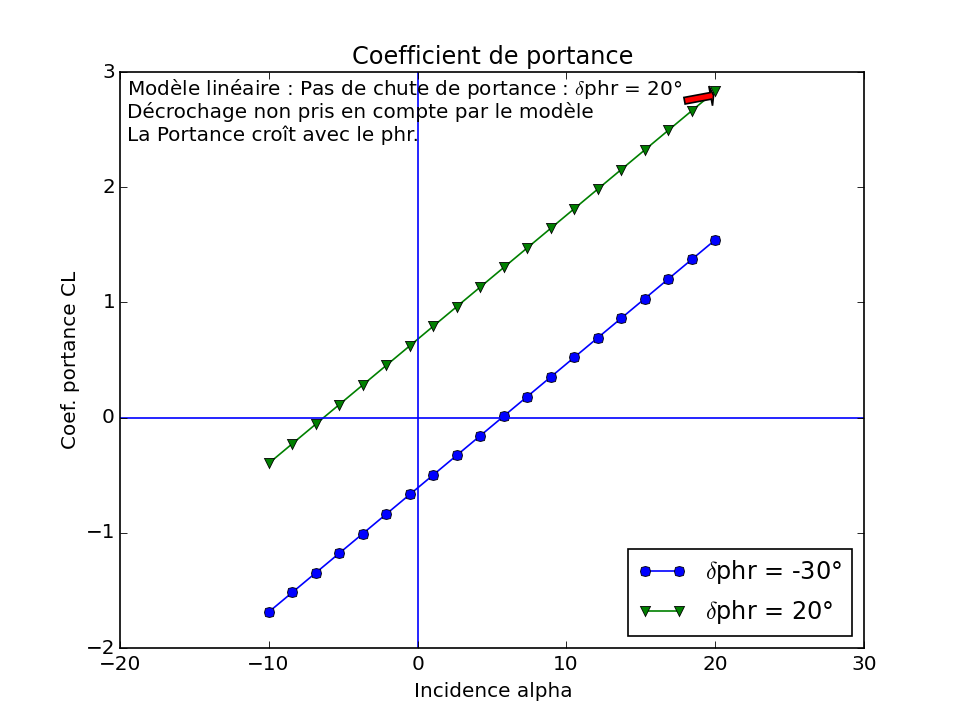
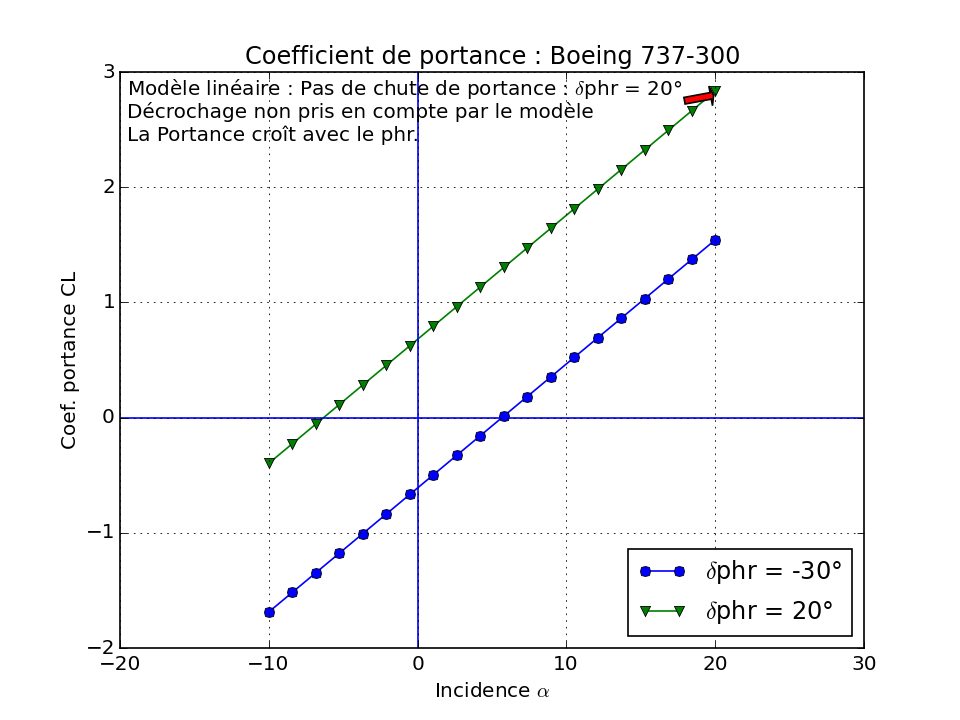
question 3.2.4

Changed region(s): [[0.25, 0.0611, 0.7812, 0.0917], [0.4375, 0.9472, 0.5938, 0.9778]]

diff --git a/main.py b/main.py
@@ -21,7 +21,7 @@ def poussee():
     abs_mach = np.linspace(0.5, 0.8, 20)  # mach en abscissse : vecteur avec 20 points
     U = [0., 1.]  # [ delta_phr delta_thrust ]  poussé max donc thrust=1
     h_list = [3000., 10000.]
-    plt.title("Poussée max en fonction du mach et de l'altitude")
+    plt.title("Poussée max en fonction du mach et de l'altitude : "+P.name)
     plt.axis([0.5, 0.8, 50, 100])
     #####################################################################################
     # FONCTIONS ANNEXES : MATHPLOTLIB
@@ -59,7 +59,7 @@ def portance():
 
     abs_alpha = np.linspace(a_rad[0], a_rad[1], 20)  # mach en abscissse : vecteur avec 20 points
     abs_alpha_deg = np.linspace(a_deg[0], a_deg[1], 20)
-    plt.title("Coefficient de portance")
+    plt.title("Coefficient de portance : "+P.name)
     plt.axis([-20,30,-2,3])
     #####################################################################################
     # FONCTIONS ANNEXES : MATHPLOTLIB
@@ -75,7 +75,7 @@ def portance():
     plt.legend(loc=4)
     plt.axhline()
     plt.axvline()
-    plt.xlabel('Incidence alpha')
+    plt.xlabel(r'Incidence $\alpha$')
     plt.ylabel('Coef. portance CL')
     plt.savefig('images/CL_of_alpha.png', dpi=120)  # sauvegarde du graphe au format png dans le dossier images
     plt.show()
@@ -98,7 +98,7 @@ def tangage():
     ms_list = [-0.1,0.,0.2,1]
     abs_alpha = np.linspace(a_rad[0], a_rad[1], 20)  # mach en abscissse : vecteur avec 20 points
     abs_alpha_deg = np.linspace(a_deg[0], a_deg[1], 20)
-    plt.title("Coefficient de tangage pour diverses marges statiques")
+    plt.title("Coef. de tangage pour diverses marges statiques :"+P.name)
     # plt.axis([-20,30,-2,3])
     #####################################################################################
     # FONCTIONS ANNEXES : MATHPLOTLIB
@@ -115,9 +115,52 @@ def tangage():
     plt.legend(loc=4)
     plt.axhline()
     plt.axvline()
-    plt.xlabel('Incidence alpha')
+    plt.xlabel(r'Incidence $\alpha$')
     plt.ylabel('Coef. tangage Cm')
     plt.savefig('images/Cm_of_alpha.png', dpi=120)  # sauvegarde du graphe au format png dans le dossier images
     plt.show()
 
-tangage()
+#tangage()
+
+
+#3.2.4
+# Calculer et tracer en fonction de l’incidence α la valeur δPHRe de δPHR pour laquelle le
+# moment de tangage est nul (i.e. Cm = 0) et le vol stabilisé (i.e. q = 0). Comment varie
+# δPHRe avec la marge statique ms et le volume d’empennage V t ? Comment varie δPHRe
+# en fonction de l’incidence d’équilibre que l’on notera αe ?
+
+def dphre(alpha,P):
+    return (P.ms * P.CLa * (alpha - P.a0) -P.Cm0)/ P.Cmd
+
+def dphre_ms(alpha,P,mms):
+    return (mms * P.CLa * (alpha - P.a0) -P.Cm0)/ P.Cmd
+
+def dphre_of_alpha():
+    a_deg=[-10,20]
+    a_rad= np.array(a_deg) * np.pi/180.
+    ms_list = [-0.1,0.,0.2,1]
+    abs_alpha = np.linspace(a_rad[0], a_rad[1], 20)  # mach en abscissse : vecteur avec 20 points
+    abs_alpha_deg = np.linspace(a_deg[0], a_deg[1], 20)
+    plt.title("$\delta$PHRe à l'équilibre : "+P.name)
+    # plt.axis([-20,30,-2,3])
+    #####################################################################################
+    # FONCTIONS ANNEXES : MATHPLOTLIB
+    plt.text(-9, -0.17, r" $\delta$PHRe décroît plus rapidement avec $\alpha$ lorsque ms > 0 croît ")
+    plt.text(-9, -0.19, "$\delta$PHRe décroît avec Vt, vol. Empennage")
+    plt.text(-9, 0.21, "La Portance croît avec le phr.")
+    # plt.annotate("Modèle linéaire : Pas de chute de portance : $\delta$phr = " + str(int(dphr_deg[1]))+"°",
+    # xy=(20, 2.8), xytext=(-19.5, 2.8),arrowprops={'facecolor':'red', 'shrink':0.05} )
+    ####################################################################################
+    for idx, ms in enumerate(ms_list):
+        ord_dphre = np.array([dphre_ms(alpha,P, ms) for alpha in abs_alpha])
+        plt.plot(abs_alpha_deg, ord_dphre, marker=markeur[idx], label="ms = "+ str(ms_list[idx]))
+
+    plt.legend(loc=3)
+    plt.axhline()
+    plt.axvline()
+    plt.xlabel(r'Incidence $\alpha$')
+    plt.ylabel('$\delta$PHRe ')
+    plt.savefig('images/dphre_of_alpha.png', dpi=120)  # sauvegarde du graphe au format png dans le dossier images
+    plt.show()
+
+dphre_of_alpha()
